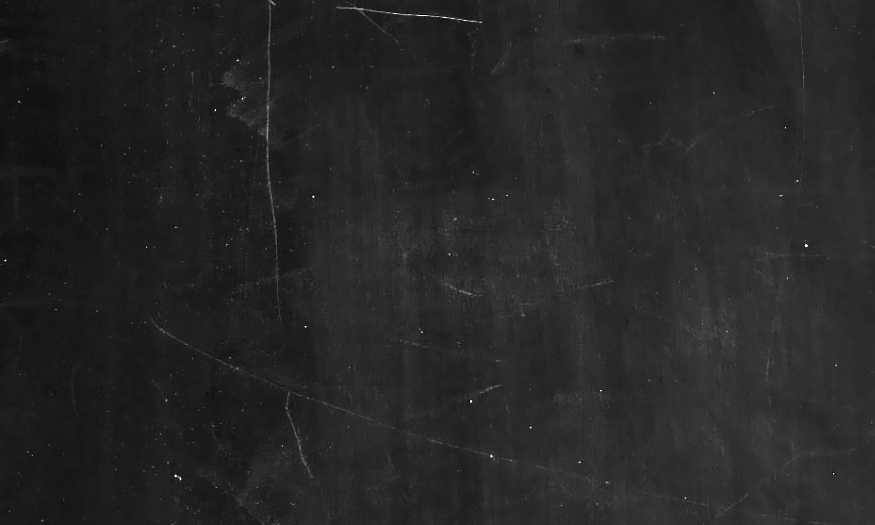
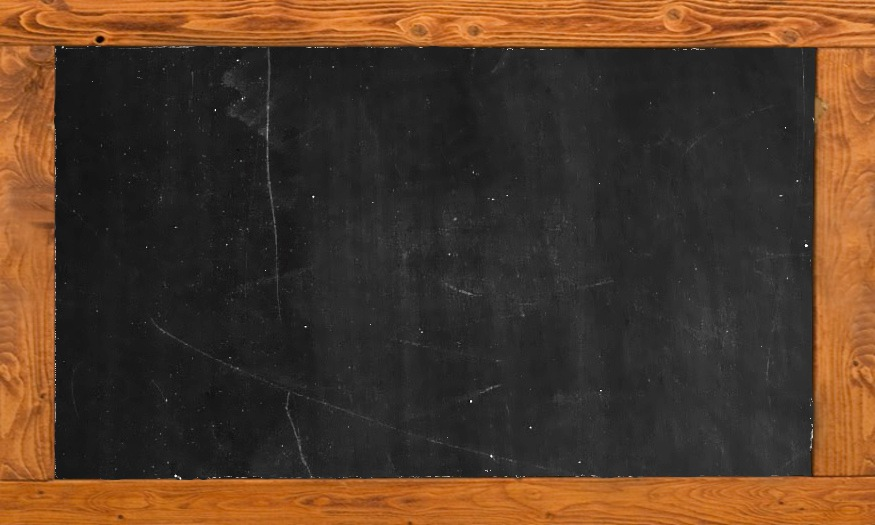
revise chat and scoreboard style and background

Changed region(s): [[0.0, 0.0, 1.0, 1.0]]

diff --git a/src/css/style.css b/src/css/style.css
@@ -233,24 +233,31 @@ body {
   z-index: 1;
 }
 
-/* Scoreboard */
+/* Blackboards */
 
-#scoreboard {
+#scoreboard, #chat {
   display: none;
-  padding: 15px 25px 10px 50px; 
+  padding: 60px; 
   border: 0;
-  width: 805px; 
-  height: 500px;
+  width: 752px; 
+  height: 405px;
   color:white;
-  background-image:url(../images/score.jpg);
   background-size: contain;
   font-family: 'Cabin Sketch';
+  font-size: 30px;
   
   user-select: none;
   -moz-user-select: -moz-none;
   -khtml-user-select: none;
   -webkit-user-select: none;
   -ms-user-select: none;
+
+}
+
+/* Scoreboard */
+
+#scoreboard {
+  background-image:url(../images/score.jpg);
 }
 #scoreboard table {
   table-layout:fixed;
@@ -297,31 +304,20 @@ th {
 
 #chatHeader {
   font-weight: bold;
-  font-size:26px;
+  font-size:30px;
+  padding-bottom: 10px;
+  border-bottom: 2px solid white;
 }
 #chat {
-  display: none;
-  padding: 60px 10px 10px 45px; 
-  border: 0;
-  width: 815px; 
-  height: 304px;
-  color:white;
-  background-image:url(../images/chat.jpg);
-  background-size: contain;
-  font-size: 23px;
-  
-  user-select: none;
-  -moz-user-select: -moz-none;
-  -khtml-user-select: none;
-  -webkit-user-select: none;
-  -ms-user-select: none;
+ background-image:url(../images/chat.jpg);
 }
 #chatTemplate {
   overflow: hidden;
 }
 #chat [data-field=nick] {
-  font-size: 16px;
-  background-color: #222;
+  font-size: 23px;
+  background-color: yellow;
+  color: black;
   font-weight: bold;
   padding: 0 7px;
   border-radius: 8px;
